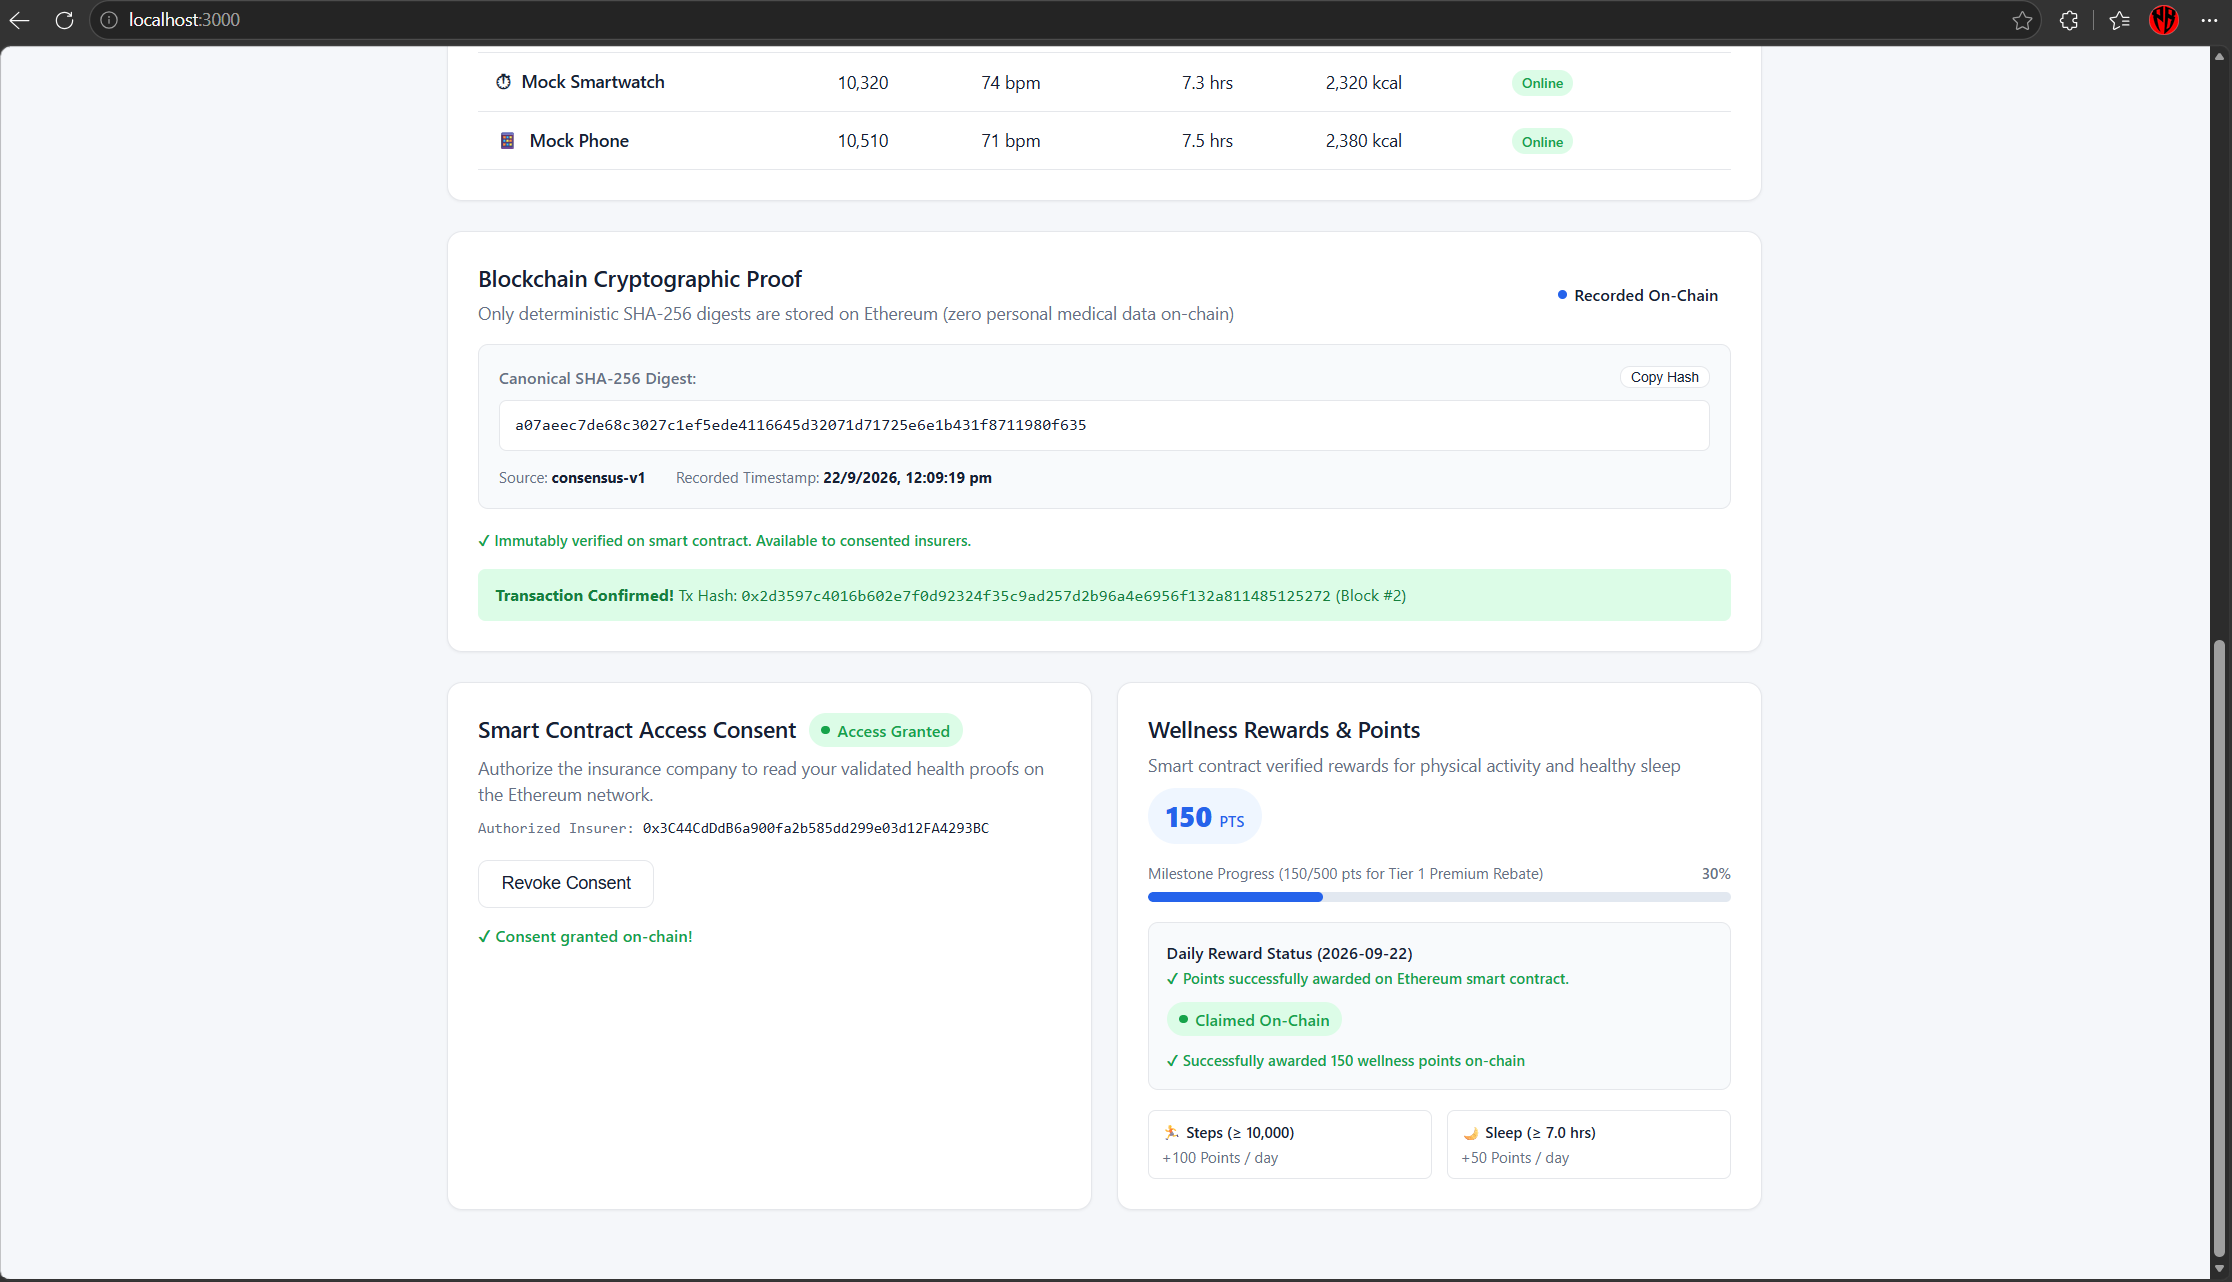
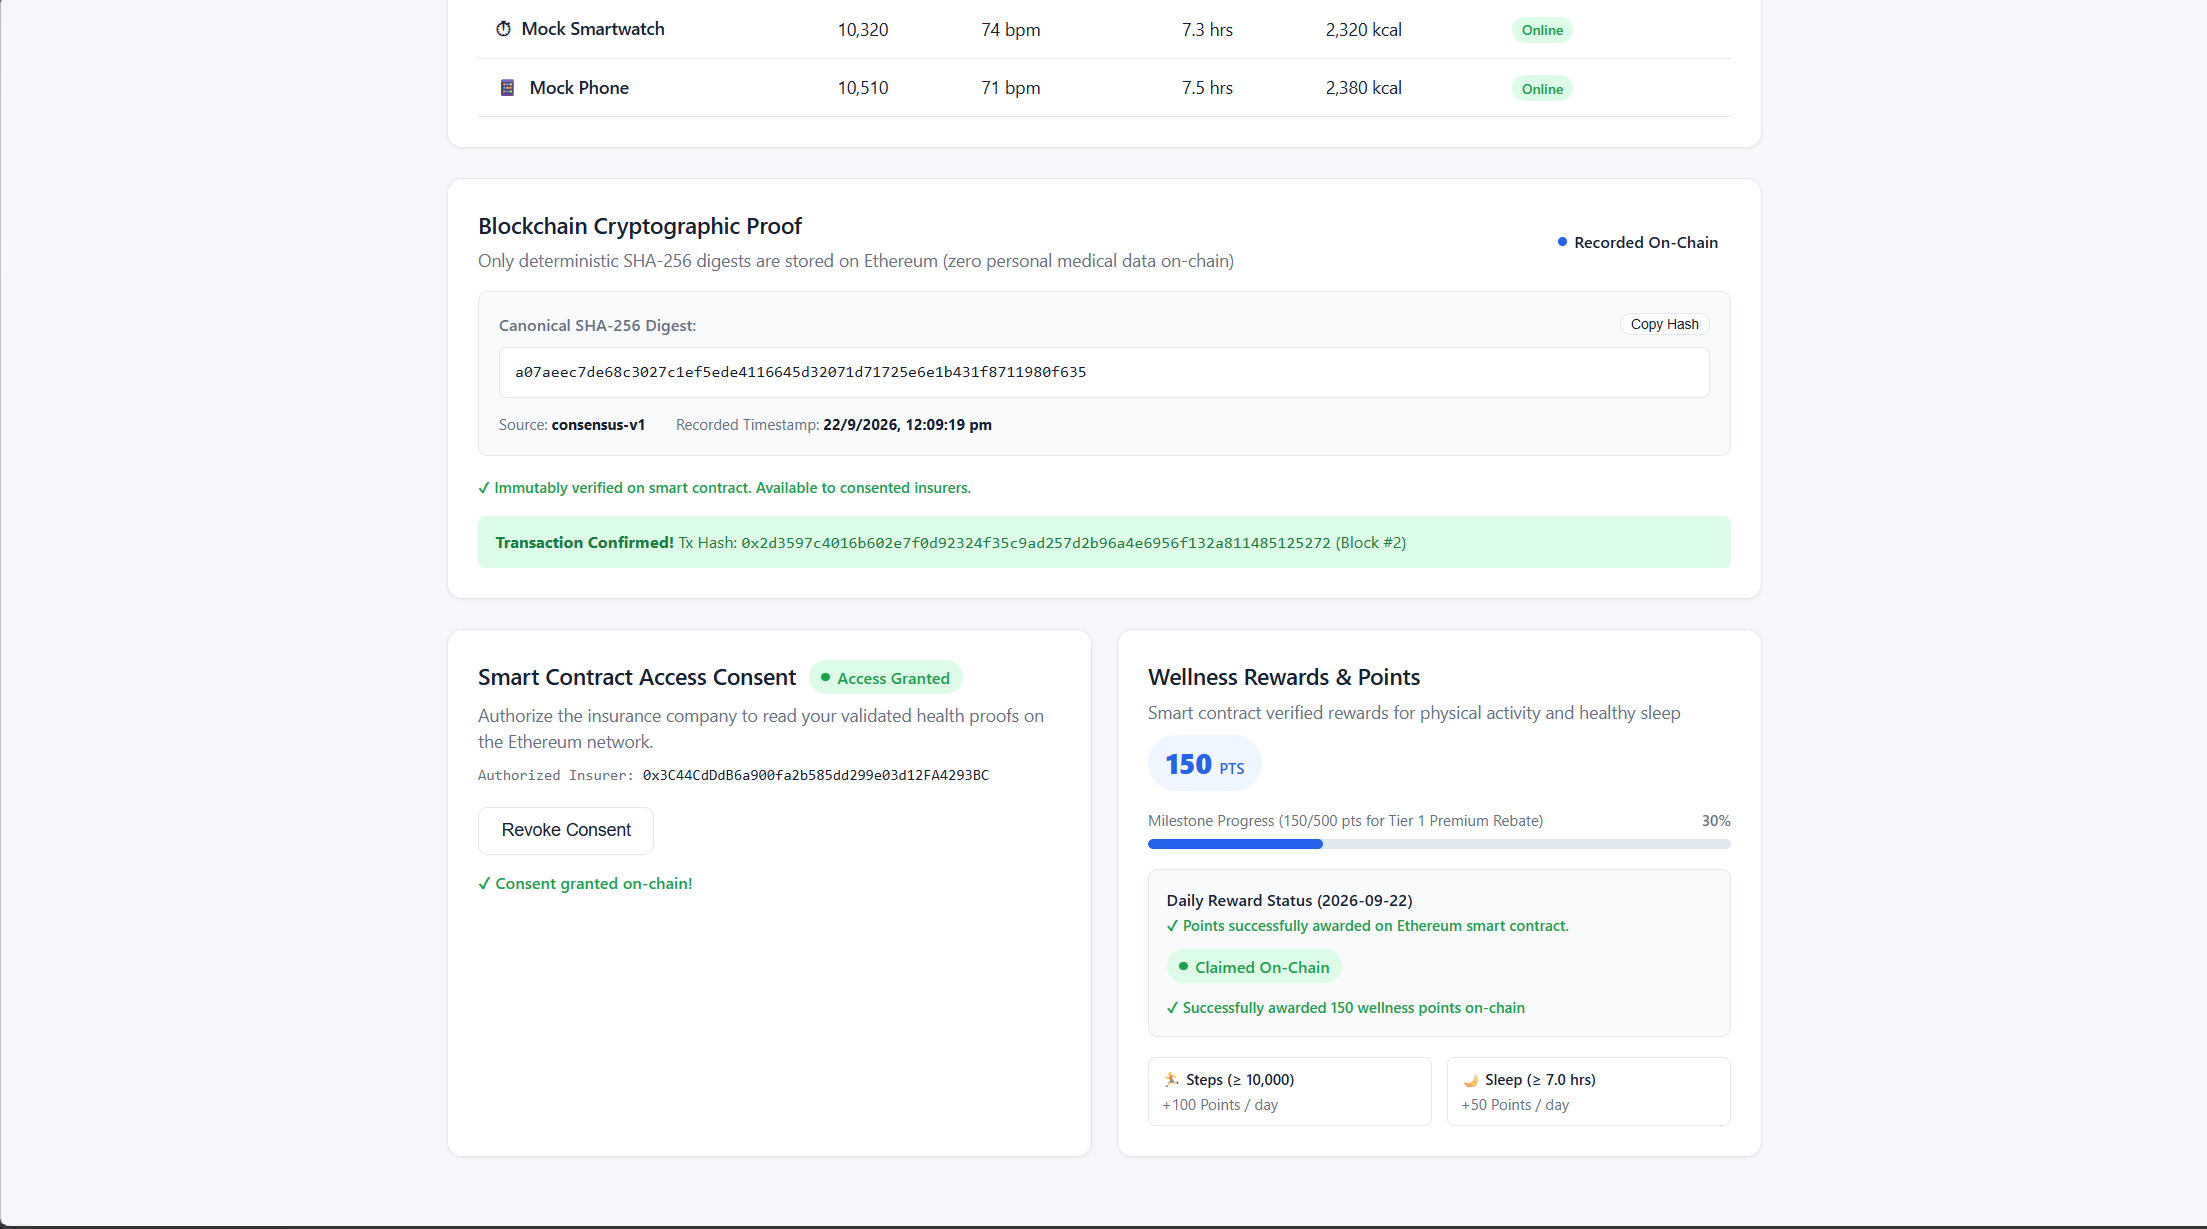
docs: update README with screenshots, clean formatting, and repo structure

diff --git a/README.md b/README.md
@@ -47,28 +47,32 @@ Health-Chain introduces an academic and industrial MVP proving how **off-chain m
 ## Core Architecture & Privacy Invariants
 
 ```text
-┌────────────────────────────────────────────────────────────────────────┐
-│                       USER INTERFACE (React 18 + Vite)                 │
-│   • Patient Portal: Vitals, Consensus Status, On-Chain Recording, Rewards   │
-│   • Insurer Portal: Consent Filter, Smart Premium Underwriting, Claims  │
-└───────────────────────────────────┬────────────────────────────────────┘
-                                    │ HTTP REST API (Proxy: localhost:3000 -> 5000)
-┌───────────────────────────────────▼────────────────────────────────────┐
-│                    BACKEND APPLICATION (Node.js + Express)             │
-│   • Multi-Source Data Ingestion (Fitbit, Smartwatch, Phone)            │
-│   • Statistical Tolerance Engine (Anomaly & Tamper Detection)          │
-│   • Deterministic Canonical Serializer & SHA-256 Hasher                │
-│   • Local Claims Store & In-Memory State Cache                         │
-└───────────────────────────────────┬────────────────────────────────────┘
-                                    │ Ethers.js v6 JSON-RPC (localhost:8545)
-┌───────────────────────────────────▼────────────────────────────────────┐
-│                 ETHEREUM SMART CONTRACT (Solidity 0.8.24)              │
-│   • HealthRecordHashes: Canonical digest ledger                        │
-│   • ConsentManagement: Patient-directed entity permissions             │
-│   • PremiumRules: Dynamic mathematical discount formula                │
-│   • ClaimsLifecycle: Transparent State Machine (Pending/Approved/Reject)│
-│   • WellnessRewards: Idempotent point minting (prevents double-claims) │
-└────────────────────────────────────────────────────────────────────────┘
+┌───────────────────────────────────────────────────────────────────────────┐
+│                       USER INTERFACE (React 18 + Vite)                    │
+│   • Patient Portal: Vitals, Consensus Status, On-Chain Recording, Rewards │
+│   • Insurer Portal: Consent Filter, Smart Premium Underwriting, Claims    │
+└───────────────────────────────────┬───────────────────────────────────────┘
+                                    │
+                                    │  HTTP REST API (Proxy: localhost:3000 → 5000)
+                                    │
+┌───────────────────────────────────▼───────────────────────────────────────┐
+│                    BACKEND APPLICATION (Node.js + Express)                │
+│   • Multi-Source Data Ingestion (Fitbit, Smartwatch, Phone)               │
+│   • Statistical Tolerance Engine (Anomaly & Tamper Detection)             │
+│   • Deterministic Canonical Serializer & SHA-256 Hasher                   │
+│   • Local Claims Store & In-Memory State Cache                            │
+└───────────────────────────────────┬───────────────────────────────────────┘
+                                    │
+                                    │  Ethers.js v6 JSON-RPC (localhost:8545)
+                                    │
+┌───────────────────────────────────▼───────────────────────────────────────┐
+│                 ETHEREUM SMART CONTRACT (Solidity 0.8.24)                 │
+│   • HealthRecordHashes: Canonical digest ledger                           │
+│   • ConsentManagement: Patient-directed entity permissions                │
+│   • PremiumRules: Dynamic mathematical discount formula                   │
+│   • ClaimsLifecycle: Transparent State Machine (Pending/Approved/Reject)  │
+│   • WellnessRewards: Idempotent point minting (prevents double-claims)    │
+└───────────────────────────────────────────────────────────────────────────┘
 ```
 
 ### The 4 Architectural Invariants
@@ -221,7 +225,7 @@ This section presents the actual running application interfaces captured across 
 | **Date Switcher** | Select between `2026-09-22`, `2026-09-21`, or `2026-09-20 (Anomaly)`. | Demonstrates consistent normal days versus an anti-fraud anomaly test day. |
 | **Daily Consensus Metrics** | Displays verified daily averages (e.g., 10,427 steps, 7.4h sleep). | Aggregated view synthesized across all active wearable devices. |
 | **IoT Device Comparison Table** | Shows raw telemetry side-by-side: *Mock Fitbit*, *Mock Smartwatch*, *Mock Phone*. | Proves cross-device verification. If one device is spoofed or hacked, the discrepancy is exposed immediately. |
-| **Integrity Anomaly Banner** *(on 2026-09-20)* | Bright red alert showing discrepancy percentages. | Demonstrates automated rejection of tampered fitness tracking data. |
+| **Integrity Anomaly Banner** | Bright red alert showing discrepancy percentages. | Demonstrates automated rejection of tampered fitness tracking data. |
 | **Blockchain Cryptographic Proof** | Shows the 64-character canonical SHA-256 digest with **"Record Hash on Blockchain"** button. | Creates an immutable cryptographic proof on Ethereum without exposing private medical details. |
 | **Smart Contract Access Consent** | Toggle button allowing the patient to **Grant** or **Revoke** insurer access on-chain. | Restores data sovereignty to the patient. Access is enforced by smart contract logic, not central servers. |
 | **Wellness Rewards & Points** | Interactive widget showing total points and a **"Claim Points"** button. | Motivates preventative healthy habits with automated points that prevent duplicate claims. |
@@ -245,7 +249,7 @@ This section presents the actual running application interfaces captured across 
 - **Node.js**: v18.x, v20.x, or v24.x installed.
 - **npm**: v9.x or higher installed.
 
-### ⚠ Windows PowerShell Notice
+### Windows PowerShell Notice
 On Windows, PowerShell restricts the execution of `.ps1` scripts by default. If typing `npm` or `npx` gives a red security error:
 - **Solution A**: Use **`npm.cmd`** and **`npx.cmd`** in PowerShell.
 - **Solution B**: Open standard **Command Prompt (`cmd.exe`)** or **Git Bash**, where standard `npm` and `npx` work without restrictions.
@@ -283,28 +287,28 @@ cd ..
 
 Open **4 separate terminal windows or tabs** and run one command in each:
 
-#### 🖥 Terminal 1: Start Local Ethereum Node
+#### Terminal 1: Start Local Ethereum Node
 ```powershell
 cd blockchain
 npx.cmd hardhat node
 ```
 *Starts a local JSON-RPC Ethereum blockchain at `http://127.0.0.1:8545` with 20 pre-funded test accounts.*
 
-#### ⛓ Terminal 2: Deploy Smart Contract
+#### Terminal 2: Deploy Smart Contract
 ```powershell
 cd blockchain
 npx.cmd hardhat run scripts/deploy.cjs --network localhost
 ```
 *Deploys `HealthChain.sol` and automatically exports the contract address (`0x5FbDB...`) and ABI to `backend/src/config/contractConfig.json`.*
 
-#### 🚀 Terminal 3: Start Backend API Server
+#### Terminal 3: Start Backend API Server
 ```powershell
 cd backend
 npm.cmd start
 ```
 *Starts the Express REST API server listening on **http://localhost:5000**.*
 
-#### 💻 Terminal 4: Start Frontend Dev Server
+#### Terminal 4: Start Frontend Dev Server
 ```powershell
 cd frontend
 npm.cmd run dev
@@ -448,6 +452,7 @@ blockchain/
 │   ├── health-records.json               # Multi-device IoT records (Fitbit, Smartwatch, Phone)
 │   ├── policies.json                     # Health insurance policy definitions
 │   └── claims.json                       # Insurance reimbursement claims
+├── screenshots/                          # Visual tour & evaluation walkthrough captures
 └── context/                              # Architectural specification docs
 ```
 
